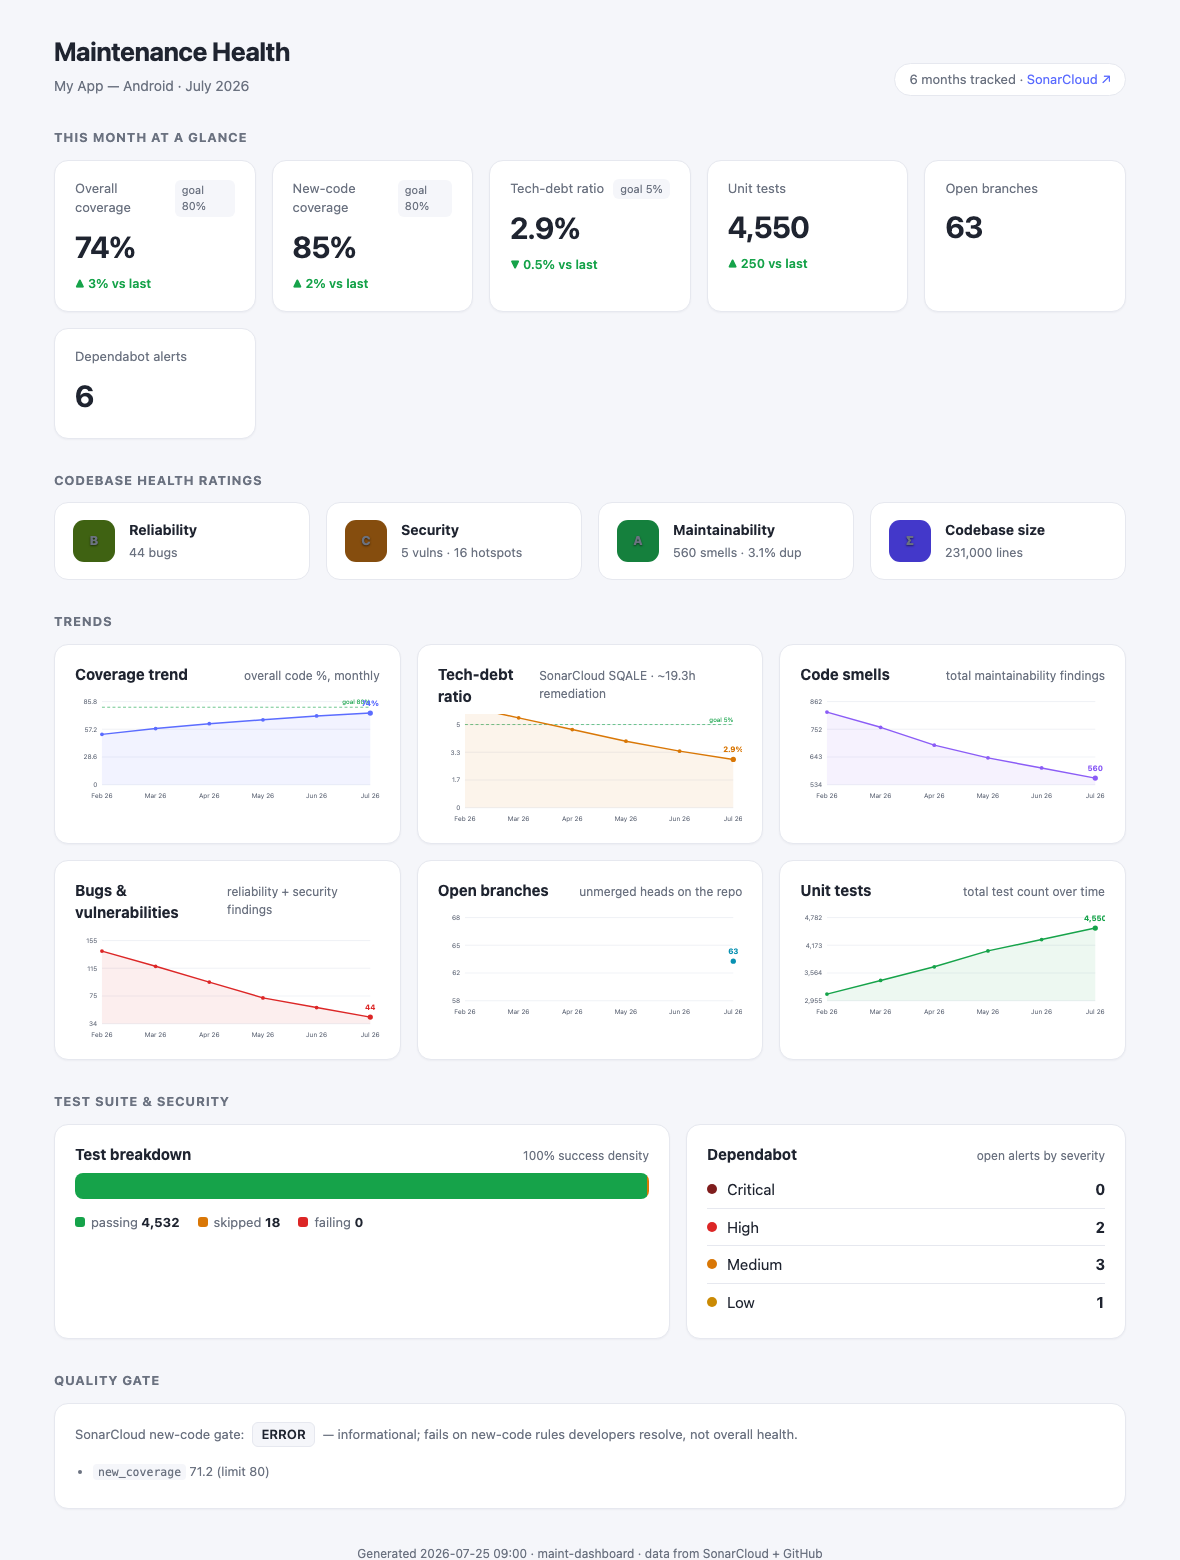
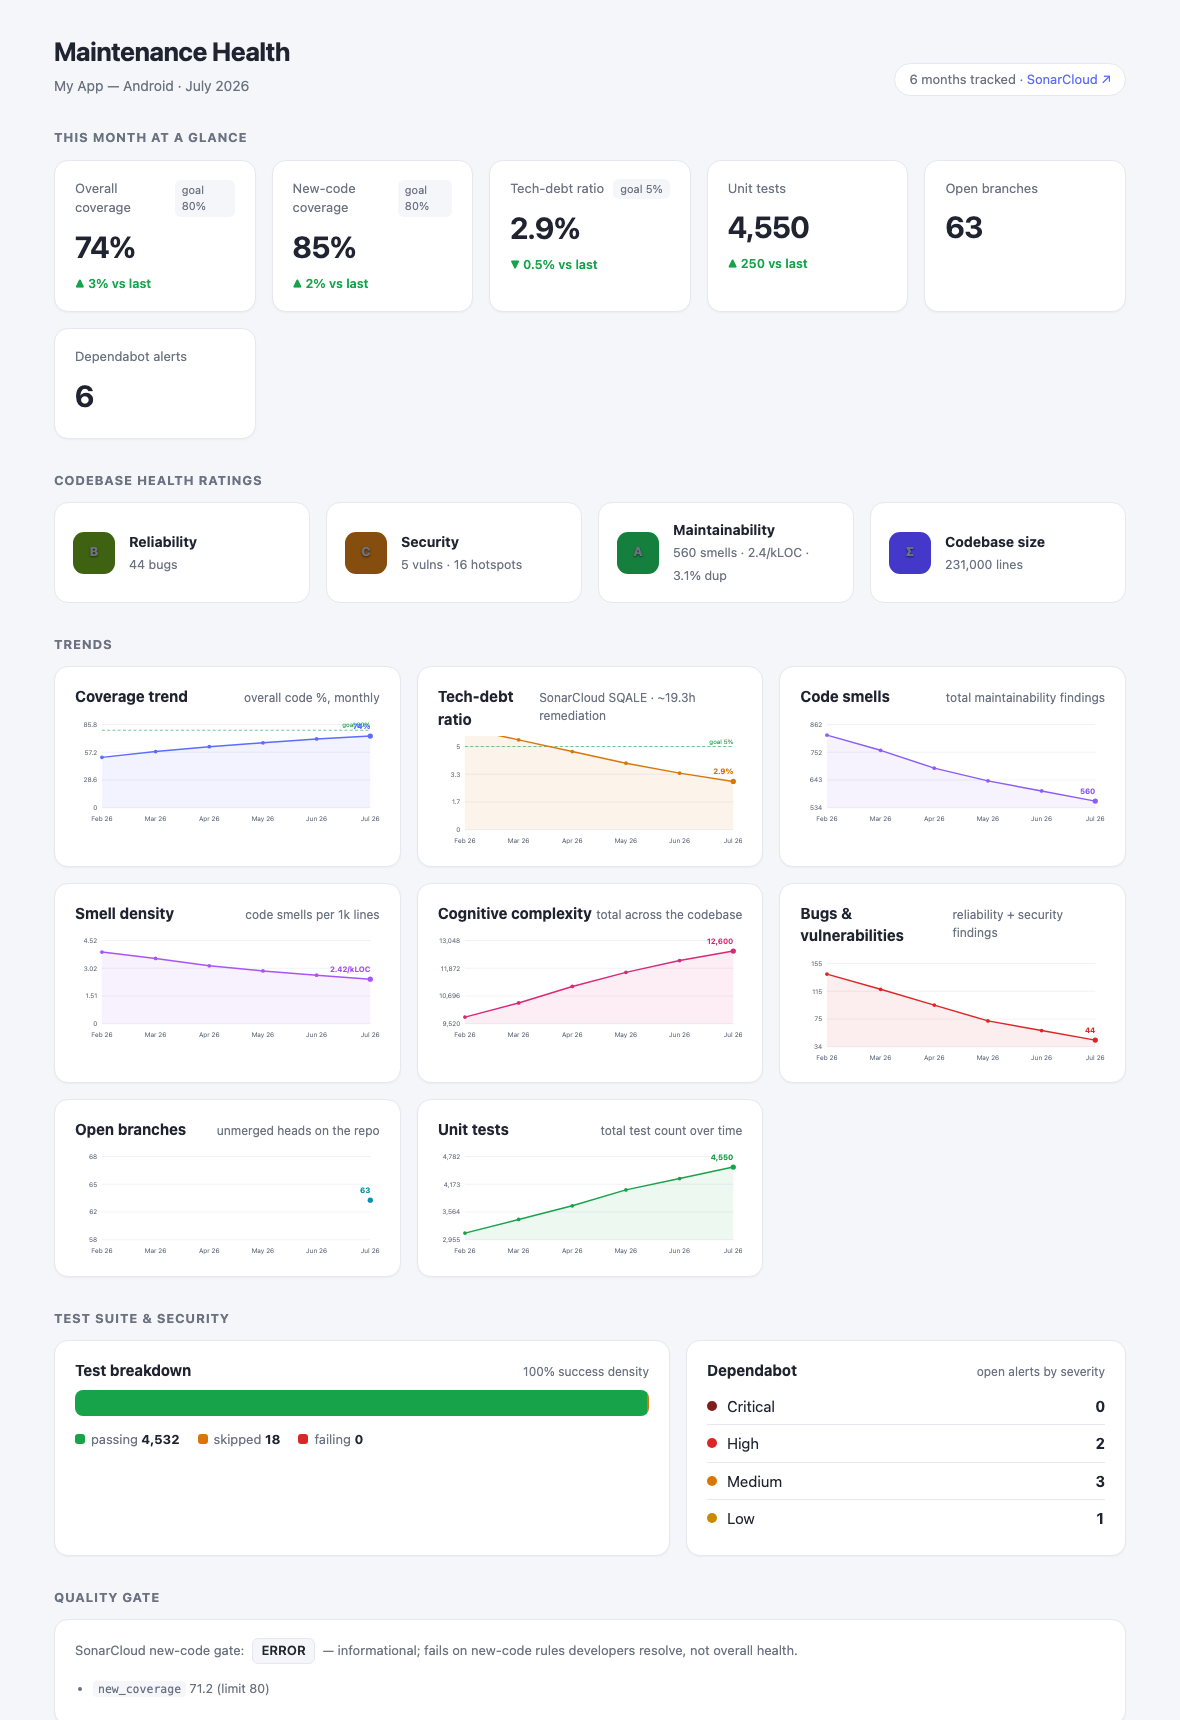
Add smell density + cognitive complexity metrics
New trend charts for code-smell density (per 1k LOC) and total cognitive
complexity, density added to the maintainability card, and a fix so wide
last-value chart labels don't clip at the edge.

diff --git a/static/app.js b/static/app.js
@@ -10,6 +10,8 @@ const CHARTS = [
   {key:"coverage",         label:"Coverage trend",       sub:"overall code %, monthly", color:ACCENT,     unit:"%", yMin:0,      acc:s=>g(s,"sonar","coverage")},
   {key:"sqale_debt_ratio", label:"Tech-debt ratio",      sub:"SonarCloud SQALE",        color:WARN,       unit:"%", yMin:0, goal:"max_debt_ratio_pct", acc:s=>g(s,"sonar","sqale_debt_ratio")},
   {key:"code_smells",      label:"Code smells",          sub:"maintainability findings",color:"#8b5cf6",  unit:"",  acc:s=>g(s,"sonar","code_smells")},
+  {key:"smell_density",    label:"Smell density",        sub:"code smells per 1k lines",color:"#a855f7",  unit:"/kLOC", yMin:0, dec:2, acc:s=>{const sm=g(s,"sonar","code_smells"),nc=g(s,"sonar","ncloc");return (sm!=null&&nc)?+(sm/nc*1000).toFixed(2):null;}},
+  {key:"cognitive_complexity",label:"Cognitive complexity",sub:"total across the codebase",color:"#db2777",unit:"", acc:s=>g(s,"sonar","cognitive_complexity")},
   {key:"bugs",             label:"Bugs & vulnerabilities",sub:"reliability + security",  color:BAD,        unit:"",  acc:s=>g(s,"sonar","bugs")},
   {key:"open_branches",    label:"Open branches",        sub:"unmerged heads on the repo",color:"#0891b2", unit:"",  acc:s=>g(s,"github","open_branches")},
   {key:"tests",            label:"Unit tests",           sub:"total test count over time",color:GOOD,     unit:"",  acc:s=>g(s,"sonar","tests")},
@@ -96,7 +98,7 @@ function renderRatings(cur){
   document.getElementById("ratings").innerHTML = [
     `<div class="rblock">${ratingBadge(s.reliability_rating)}<div><b>Reliability</b><span>${fmt(s.bugs,"",0)} bugs</span></div></div>`,
     `<div class="rblock">${ratingBadge(s.security_rating)}<div><b>Security</b><span>${fmt(s.vulnerabilities,"",0)} vulns · ${fmt(s.security_hotspots,"",0)} hotspots</span></div></div>`,
-    `<div class="rblock">${ratingBadge(s.sqale_rating)}<div><b>Maintainability</b><span>${fmt(s.code_smells,"",0)} smells · ${fmt(s.duplication,"%")} dup</span></div></div>`,
+    `<div class="rblock">${ratingBadge(s.sqale_rating)}<div><b>Maintainability</b><span>${fmt(s.code_smells,"",0)} smells · ${fmt(s.code_smells!=null&&s.ncloc?s.code_smells/s.ncloc*1000:null,"/kLOC")} · ${fmt(s.duplication,"%")} dup</span></div></div>`,
     `<div class="rblock"><span class="rating" style="background:#4338ca">Σ</span><div><b>Codebase size</b><span>${fmt(s.ncloc,"",0)} lines</span></div></div>`,
   ].join("");
 }
@@ -125,7 +127,7 @@ function renderCharts(snaps){
       data:{labels, datasets:ds},
       options:{responsive:true, maintainAspectRatio:false,
         plugins:{legend:{display:false},
-          tooltip:{callbacks:{label:ctx=> (ctx.datasetIndex===1?"goal ":"")+fmt(ctx.parsed.y,cfg.unit,1)}}},
+          tooltip:{callbacks:{label:ctx=> (ctx.datasetIndex===1?"goal ":"")+fmt(ctx.parsed.y,cfg.unit,cfg.dec??1)}}},
         scales:{y:yScale, x:{grid:{display:false}}}}
     });
   });

diff --git a/report.py b/report.py
@@ -125,7 +125,14 @@ def line_chart(series, y_min=None, y_max=None, color=ACCENT, unit="", goal=None,
     lv = series[last_i][1]
     lx, ly = x(last_i), y(lv)
     parts.append(f'<circle cx="{lx:.1f}" cy="{ly:.1f}" r="4.5" fill="{color}"/>')
-    parts.append(f'<text x="{lx:.1f}" y="{ly-12:.1f}" text-anchor="middle" class="val" fill="{color}">'
+    # keep a wide last-value label inside the viewbox instead of clipping it
+    if lx > W - 56:
+        tx, anchor = W - pr, "end"
+    elif lx < pl + 28:
+        tx, anchor = pl, "start"
+    else:
+        tx, anchor = lx, "middle"
+    parts.append(f'<text x="{tx:.1f}" y="{ly-12:.1f}" text-anchor="{anchor}" class="val" fill="{color}">'
                  f'{_fmt(lv, unit, decimals)}</text>')
 
     # x labels (thin them out if crowded)
@@ -198,6 +205,19 @@ def build_report(snapshots: list[dict], cfg: dict, generated_at: str) -> str:
     def gh_series(key):
         return [(snap["month"], (snap.get("github") or {}).get(key)) for snap in snapshots]
 
+    def density_series():
+        # code smells per 1k lines — normalizes for codebase growth
+        out = []
+        for snap in snapshots:
+            so = snap.get("sonar") or {}
+            sm, nc = so.get("code_smells"), so.get("ncloc")
+            out.append((snap["month"], round(sm / nc * 1000, 2) if (sm is not None and nc) else None))
+        return out
+
+    def smell_density(so):
+        sm, nc = so.get("code_smells"), so.get("ncloc")
+        return sm / nc * 1000 if (sm is not None and nc) else None
+
     def dep_total(gd):
         return (gd or {}).get("total") if gd else None
 
@@ -233,7 +253,7 @@ def build_report(snapshots: list[dict], cfg: dict, generated_at: str) -> str:
         f'{_fmt(s.get("security_hotspots"),"",0)} hotspots</span></div></div>',
         f'<div class="rblock">{rating_badge(s.get("sqale_rating"))}'
         f'<div><b>Maintainability</b><span>{_fmt(s.get("code_smells"),"",0)} smells · '
-        f'{_fmt(s.get("duplication"),"%")} dup</span></div></div>',
+        f'{_fmt(smell_density(s),"/kLOC")} · {_fmt(s.get("duplication"),"%")} dup</span></div></div>',
         f'<div class="rblock"><span class="rating" style="background:#4338ca">Σ</span>'
         f'<div><b>Codebase size</b><span>{_fmt(s.get("ncloc"),"",0)} lines</span></div></div>',
     ])
@@ -256,6 +276,10 @@ def build_report(snapshots: list[dict], cfg: dict, generated_at: str) -> str:
                               goal=goals.get("max_debt_ratio_pct"), decimals=1)),
         chart_card("Code smells", "total maintainability findings", line_chart(
             sonar_series("code_smells"), color="#8b5cf6", decimals=0)),
+        chart_card("Smell density", "code smells per 1k lines", line_chart(
+            density_series(), y_min=0, color="#a855f7", unit="/kLOC", decimals=2)),
+        chart_card("Cognitive complexity", "total across the codebase", line_chart(
+            sonar_series("cognitive_complexity"), color="#db2777", decimals=0)),
         chart_card("Bugs & vulnerabilities", "reliability + security findings", line_chart(
             sonar_series("bugs"), color=BAD, decimals=0)),
         chart_card("Open branches", "unmerged heads on the repo", line_chart(

diff --git a/sources.py b/sources.py
@@ -26,7 +26,7 @@ SONAR_METRICS = [
     "security_hotspots", "bugs", "vulnerabilities",
     "reliability_rating", "security_rating", "sqale_rating",
     "sqale_debt_ratio", "sqale_index",
-    "ncloc", "duplicated_lines_density",
+    "ncloc", "duplicated_lines_density", "cognitive_complexity",
 ]
 
 
@@ -164,6 +164,7 @@ def assemble_sonar(by_metric: dict, project_name: str, url: str,
         "sqale_index_min": as_int(by_metric.get("sqale_index")),
         "ncloc": as_int(by_metric.get("ncloc")),
         "duplication": by_metric.get("duplicated_lines_density"),
+        "cognitive_complexity": as_int(by_metric.get("cognitive_complexity")),
     }
 
 

diff --git a/README.md b/README.md
@@ -27,6 +27,7 @@ like DORA/build-time — those belong to a separate concern):
 | Tech-debt ratio (SQALE) + remediation time | SonarCloud |
 | Reliability / Security / Maintainability ratings (A–E) | SonarCloud |
 | Bugs, vulnerabilities, security hotspots, code smells, duplication | SonarCloud |
+| Code-smell density (per 1k LOC) + cognitive complexity | SonarCloud |
 | Unit tests (passing / skipped / failing) + success density | SonarCloud |
 | Lines of code | SonarCloud |
 | Open branches | GitHub |
